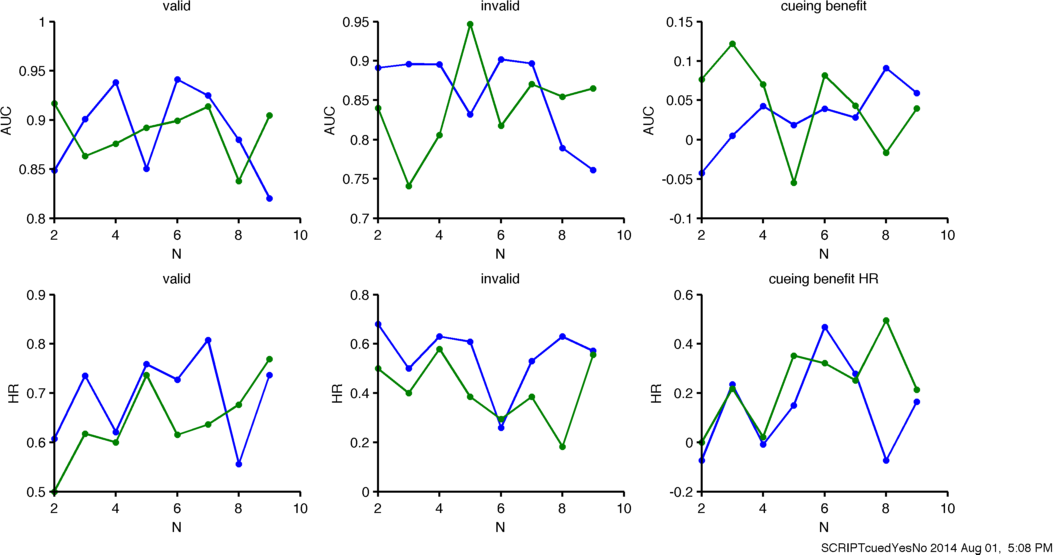
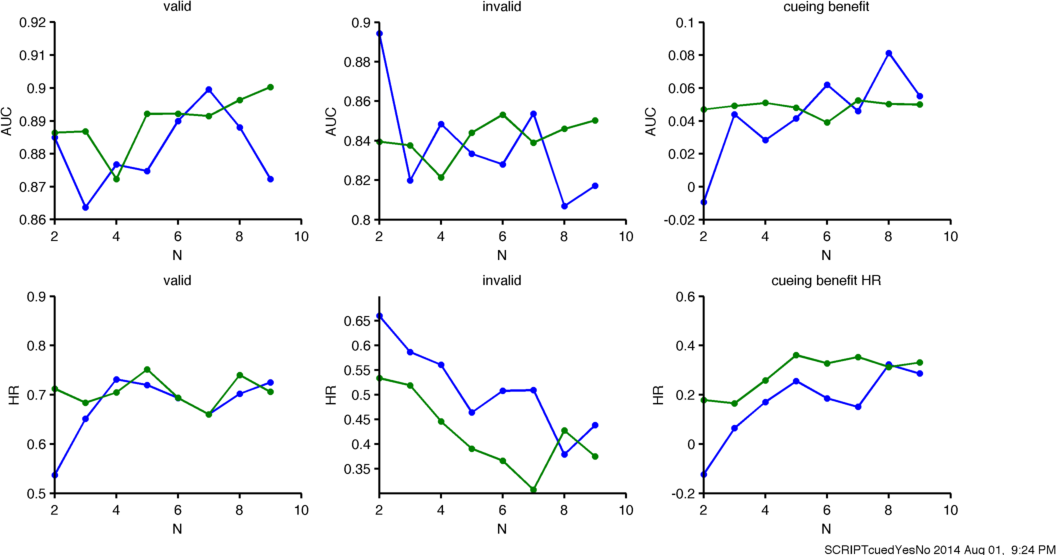
added fixed variable info to plots

diff --git a/code/SCRIPTcuedYesNo.m b/code/SCRIPTcuedYesNo.m
@@ -28,7 +28,7 @@ T1=clock;
 %% Define parameters
 % Select parameters to use based on if we are quick testing (faster
 % computation times) or final runs (will take a while to compute).
-N_testing_trials		= 10000;
+N_testing_trials		= 1000;
 T_publication_trials	= 2000;
 switch run_type
 	case{'testing'}
@@ -132,7 +132,7 @@ try
 	% save as a .fig file
 	hgsave('results_cued_yesno')
 	% save as .png and .pdf files
-	figure(4), latex_fig(10, 8, 4), export_fig results_cued_yesno -png  -m1
+	figure(4), latex_fig(10, 8, 3), export_fig results_cued_yesno -png  -m1
 	figure(1), latex_fig(10, 8, 4), export_fig results_cued_yesnoEXPT1 -png -m1
 	figure(2), latex_fig(10, 8, 4), export_fig results_cued_yesnoEXPT2 -png -m1
 	figure(3), latex_fig(10, 8, 4), export_fig results_cued_yesnoEXPT3 -png -m1
@@ -163,17 +163,17 @@ plot( expt.cue_validity_list.*100 ,...
 %ylim([0 1])
 xlabel('cue validity')
 ylabel('cuing effect')
-%title('invalid/present')
+
+% text for fixed parameter
+fixed = sprintf('N = %d', expt.set_size_list);
+bordertext('topleft', fixed);
 
 legend(num2str(expt.variance_list'))
+legend('Location','NorthEast')
 
 drawnow
 
 end
-
-
-
-
 
 function results = EXPT2(expt)
 %% EXPERIMENT 2
@@ -192,25 +192,17 @@ plot( expt.dp_list , results.validHR-results.invalidHR,...
 %ylim([0 1])
 xlabel('noise variance')
 ylabel('cuing effect')
-%title('invalid/present')
+
+% text for fixed parameter
+fixed = sprintf('v = %d', expt.cue_validity_list);
+bordertext('topleft', fixed);
 
 legend(num2str(expt.set_size_list'))
+legend('Location','NorthEast')
 
 drawnow
 
 end
-
-
-
-
-
-
-
-
-
-
-
-
 
 function results = EXPT3(expt)
 %% EXPERIMENT 3
@@ -227,17 +219,17 @@ plot( expt.set_size_list , results.validHR-results.invalidHR,...
 %ylim([0 1])
 xlabel('set size')
 ylabel('cuing effect')
-%title('invalid/present')
+
+% text for fixed parameter
+fixed = sprintf('variance = %1.1f', expt.variance_list);
+bordertext('topleft', fixed);
 
 legend(num2str(expt.cue_validity_list'))
+legend('Location','NorthEast')
 
 drawnow
 
 end
-
-
-
-
 
 
 function results=doParameterSweep(expt)
@@ -282,12 +274,7 @@ min_sec(toc);
 end
 
 
-
-
-
-
 function plotExperimentResults(expt, results, xVariable, xlabeltext)
-
 %
 % = getfield(expt, xVariable);
 x = expt.(xVariable); % <-- use of dynamic field name
